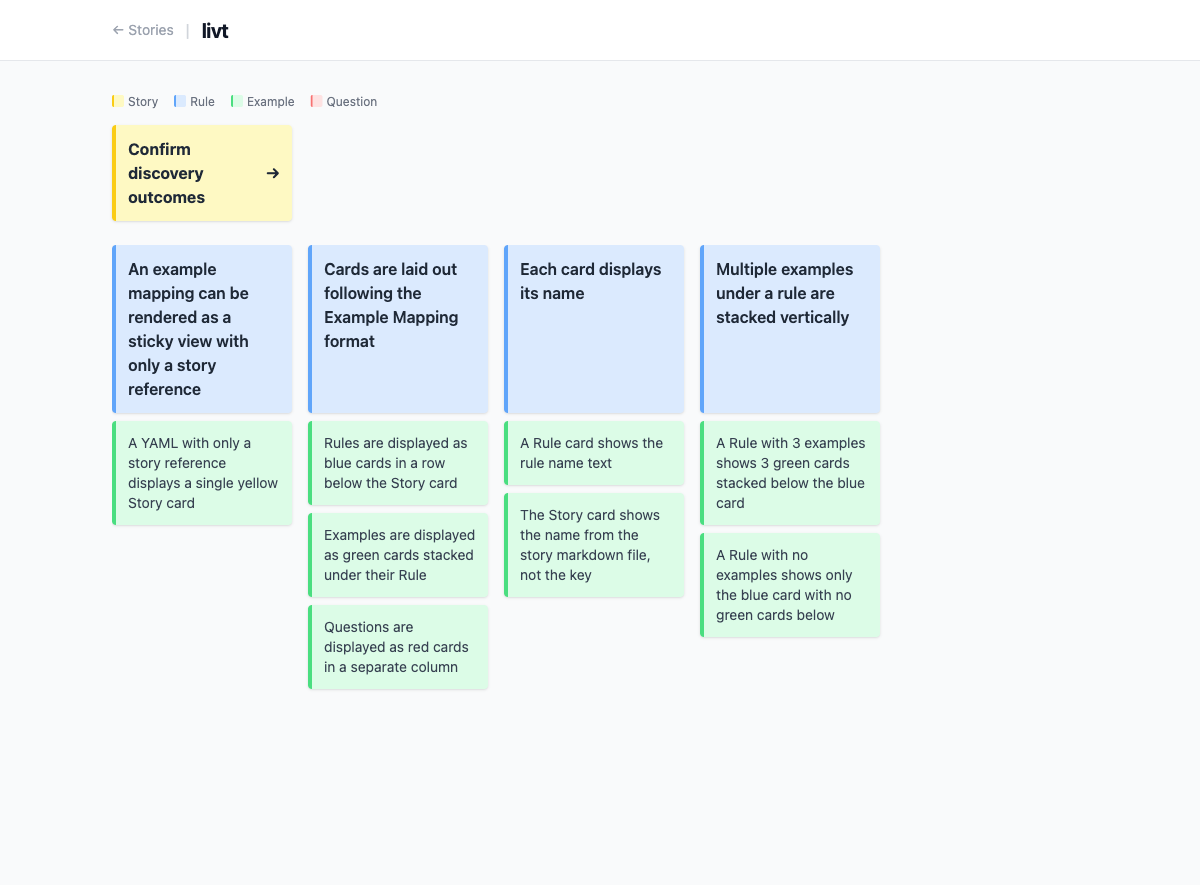
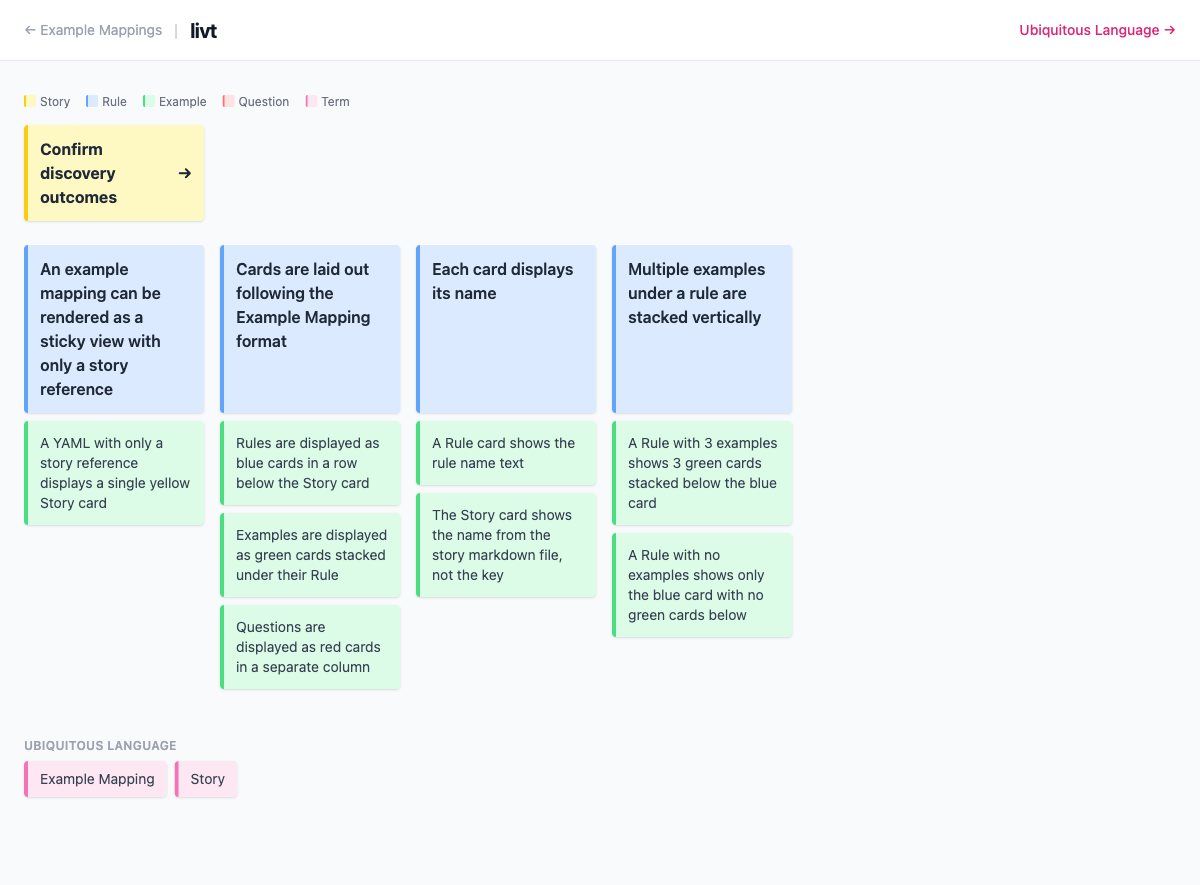
Update docs for the sidebar home
- file-structure.md: index.html is now the Example Mappings overview;
  add story-maps.html and stories.html; note the shared sidebar.
- getting-started.md: describe sidebar navigation after `livt serve`.
- Regenerate the stories-index / story-map / example-mapping captures
  from an English demo project so they reflect the sidebar UI and the
  ubiquitous-term stickies now shown on boards.

diff --git a/docs/src/reference/file-structure.md b/docs/src/reference/file-structure.md
@@ -27,12 +27,18 @@ project-root/
 
 ```
 dist/
-  index.html                              # Story list
+  index.html                              # Example mappings overview (home)
+  story-maps.html                         # Story maps overview
+  stories.html                            # Story list
+  ubiquitous.html                         # Ubiquitous language table
   story/
     {story-key}.html                      # Story detail pages
   mapping/
     {story-key}.html                      # Example mapping boards
   story-map/
     {map-name}.html                       # Story map boards
-  ubiquitous.html                         # Ubiquitous language table
 ```
+
+Every page shares a left sidebar that links the four resource types
+(Example Mappings, Story Maps, Stories, Ubiquitous Language). The overview
+pages render each example mapping and story map as a preview card.

diff --git a/docs/src/getting-started.md b/docs/src/getting-started.md
@@ -32,6 +32,8 @@ So that I get value
 livt serve
 ```
 
-4. Open <http://localhost:3000> in your browser to view the board.
+4. Open <http://localhost:3000> in your browser. Every page has a sidebar to
+   switch between Example Mappings, Story Maps, Stories, and Ubiquitous Language.
+   Open **Stories** to find the story you just created:
 
-![Stories index](images/stories-index.png)
+![Stories list and sidebar navigation](images/stories-index.png)
